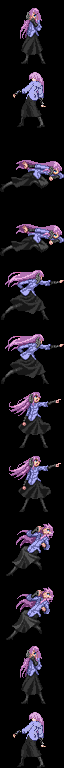
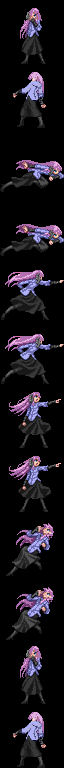
Integrate five supplied rear battle poses with bounded directional rendering

diff --git a/tools/dark_story/build_heart_art.py b/tools/dark_story/build_heart_art.py
@@ -11,12 +11,10 @@ frames are packed one under another (64x768 = 12 frames) with no palette of
 their own.  So the sheet must use that exact palette and nothing else; a
 private 16-colour palette makes every index land on the wrong colour.
 
-Frame layout (games/tbs/src/graphics/sprite/spr_484.tsv steps by two):
-  0,1   front idle / rear idle   2-3   dash / leap (rise)
-  4-5   lunge (landing)           6-7   cast           8-9   damage
-  10,11 front breathing / rear idle
-The supplied rear idle is used only for camera-relative rear idle poses.
-Unsupported action poses retain their existing duplicate frames.
+Frame layout (games/tbs/src/graphics/sprite/spr_484.tsv steps by two, each
+frame is stored twice):
+  0-1   idle            2-3   dash / leap (rise)     4-5  lunge (landing)
+  6-7   cast            8-9   damage       10-11 idle, breathing in
 """
 from pathlib import Path
 
@@ -101,25 +99,6 @@ for index, (name, mirror, rise) in enumerate(LAYOUT):
     frame.alpha_composite(art, (x, FRAME - height - rise))
     sheet.alpha_composite(frame, (0, index * FRAME))
 
-# The original 128x128 rear idle artwork is supplied by Ashfall's author.
-# Match the existing front idle's 56-pixel height, preserve its aspect ratio
-# and ground anchor, and replace only the otherwise-unused odd idle frames.
-rear = Image.open(ROOT / "assets/heart/rear/HeartPosing.png").convert("RGBA")
-bounds = rear.getchannel("A").getbbox()
-if not bounds:
-    raise ValueError("Heart rear idle is empty")
-rear = rear.crop(bounds)
-scale = min(56 / rear.height, FRAME / rear.width)
-rear = rear.resize((round(rear.width * scale), round(rear.height * scale)),
-                   Image.Resampling.NEAREST)
-mask = np.asarray(rear)[..., 3] >= 128
-cx = np.nonzero(mask)[1].mean()
-x = max(0, min(FRAME - rear.width, round(FRAME / 2 - cx)))
-rear_frame = Image.new("RGBA", (FRAME, FRAME), (0, 0, 0, 0))
-rear_frame.alpha_composite(rear, (x, FRAME - rear.height))
-for index in (1, 11):
-    sheet.paste(rear_frame, (0, index * FRAME))
-
 # Quantize each visible pixel to the nearest colour of the shared palette.
 data = np.asarray(sheet)
 visible = data[..., 3] >= 128
@@ -142,35 +121,8 @@ for n in range(FRAMES):
     assert f.any(), f"frame {n} is empty"
     ys, xs = np.nonzero(f)
     assert ys.max() <= FRAME - 1 and xs.min() >= 0 and xs.max() < FRAME
-# The native frame packer stores nonzero pixels as literals, zero runs in
-# chunks of at most 32 and a terminator per frame; the outer LZ stream expands
-# into this representation in the enemy cache, including its offset table.
-# Use the stricter one-slot (16 KiB) limit even though Heart occupies two.
-def packed_frame_size(frame):
-    pixels = frame.ravel()
-    i = 0
-    size = 1
-    while i < len(pixels):
-        if pixels[i]:
-            i += 1
-        else:
-            run = 1
-            while run < 32 and i + run < len(pixels) and not pixels[i + run]:
-                run += 1
-            i += run
-        size += 1
-    return size
-
-packed_size = 4 * (FRAMES + 1) + sum(
-    packed_frame_size(indices[n * FRAME:(n + 1) * FRAME])
-    for n in range(FRAMES)
-)
-if packed_size > 16 * 1024:
-    raise ValueError(f"Heart sprite cache overflow: {packed_size} bytes")
-assert np.array_equal(indices[FRAME:2 * FRAME], indices[11 * FRAME:12 * FRAME])
-for n in (2, 4, 6, 8):
-    assert np.array_equal(indices[n * FRAME:(n + 1) * FRAME],
-                          indices[(n + 1) * FRAME:(n + 2) * FRAME])
+from rear_battle_frames import apply_rear_frames
+indexed = apply_rear_frames(indexed, "heart_idle", (1, 11))
 indexed.save(DEST, optimize=False)
 print(f"Rebuilt {DEST.relative_to(ROOT)}: {FRAMES} frames, "
       f"{len(set(indices[visible].tolist()))} colours from the shared palette")

diff --git a/tools/dark_story/rear_battle_frames.py b/tools/dark_story/rear_battle_frames.py
@@ -1,0 +1,63 @@
+"""Preserve approved Ashfall rear frames across battle-art regeneration.
+
+All overlays are supplied-art conversions, indexed to the shared sprite palette.
+Do not silently accept a changed pose layout or a resource over the cache limit.
+"""
+from pathlib import Path
+import numpy as np
+from PIL import Image
+
+ROOT = Path(__file__).resolve().parents[2]
+ASSETS = ROOT / "assets" / "rear_battle"
+
+
+def packed_size(pixels):
+    count = pixels.shape[0] // 64
+    size = 4 * (count + 1)
+    for frame in pixels.reshape(count, 4096):
+        i = 0
+        size += 1
+        while i < 4096:
+            if frame[i]:
+                i += 1
+            else:
+                run = 1
+                while run < 32 and i + run < 4096 and not frame[i + run]:
+                    run += 1
+                i += run
+            size += 1
+    return size
+
+
+def apply_rear_frames(sheet, asset, slots):
+    if sheet.mode != "P" or sheet.width != 64 or sheet.height % 64:
+        raise ValueError("Expected a 64px-wide indexed battle sheet")
+    palette = sheet.getpalette()
+    rear = Image.open(ASSETS / (asset + ".png"))
+    if rear.mode != "P" or rear.size != (64, 64):
+        raise ValueError("Expected a 64x64 indexed rear frame")
+    if rear.getpalette()[:672] != palette[:672]:
+        raise ValueError("Rear frame palette differs from shared palette")
+    pixels = np.array(sheet)
+    original = pixels.copy()
+    frame = np.array(rear)
+    if not frame.any() or frame.max() > 223:
+        raise ValueError("Rear frame has invalid palette indices")
+    for slot in slots:
+        if not 0 < slot < sheet.height // 64 or slot % 2 != 1:
+            raise ValueError("Rear frame slot must be an existing odd frame")
+        dest = pixels[slot * 64:(slot + 1) * 64]
+        prior = pixels[(slot - 1) * 64:slot * 64]
+        if not (np.array_equal(dest, prior) or np.array_equal(dest, frame)):
+            raise ValueError("Rear frame would replace a nonduplicate pose")
+        dest[:] = frame
+    for i in range(sheet.height // 64):
+        if i not in slots and not np.array_equal(
+                pixels[i * 64:(i + 1) * 64], original[i * 64:(i + 1) * 64]):
+            raise ValueError("Unexpected change to a nonreplacement pose")
+    size = packed_size(pixels)
+    if pixels.max() > 223 or size > 16384:
+        raise ValueError(f"Invalid palette or sprite cache overflow: {size} bytes")
+    result = Image.fromarray(pixels, "P")
+    result.putpalette(palette)
+    return result

diff --git a/games/tbs/src/field/field/sprite_draw.c b/games/tbs/src/field/field/sprite_draw.c
@@ -5,6 +5,7 @@
 #include "../field_internal.h"
 #include "battle_display.h"
 #include "atropos_aura.h"
+#include "ashfall_rear_facing.h"
 
 /// Draws one anim's frame into a sprite's pixel buffer (Render_DecodeFrame,
 /// run from RAM).
@@ -186,21 +187,14 @@ s32 Sprite_ComposeFrame(struct Sprite *animation, u16 dir) {
       break;
     default:
       facing = 0;
-      // Kind 44 (Ash Jenna, Heart, Kegare and Sarah in battle) never mirrors
-      // by itself, only while a camera swing has turned the view round
-      // (BattleCamera_FlipBossesInFrontView).
+      // Retain legacy Kind 44 behavior except for approved rear pose pairs.
       if (layer->kind == 44 && gBattleCamera != 0) {
         if (gBattleCamera->flipCaster == FLIP_CASTER_ON)
           facing = 0x80;
-        // Heart (SPR_484) has a rear idle drawing in the unused odd frames.
-        // Use the camera-relative actor heading, but keep the old behavior
-        // for every unsupported action pose and every other custom sprite.
-        if (i == 0 && (layer->animationId & 0xfff) == 484 &&
-            (frame == 0 || frame == 10)) {
-          u32 nativeFacing = gAnimationFacing_FrontBack[dir >> 13];
-          if (nativeFacing & 1)
-            facing = nativeFacing;
-        }
+        if (i == 0)
+          facing = AshfallRearFacing(layer->animationId, frame,
+                                     gAnimationFacing_FrontBack[dir >> 13],
+                                     facing);
       }
       break;
     }
@@ -558,7 +552,12 @@ void Render_PlaceProjectedSprite(struct Sprite *sprite, s32 *point, s32 *scale,
         scaleX = 0x1f800;
       if (scaleY > 0x1f7ff)
         scaleY = 0x1f800;
-      offsetX = Iwram_MulQ16(sprite->offsetX, scaleX);
+      offsetX = sprite->offsetX;
+      if (gBattleCamera != 0 && sprite->entries[0] != 0 &&
+          sprite->entries[0]->kind == 44)
+        offsetX += AshfallRearOffsetX(sprite->entries[0]->animationId,
+                                    sprite->entries[0]->frame);
+      offsetX = Iwram_MulQ16(offsetX, scaleX);
       offsetY = -Iwram_MulQ16((sprite->height >> 1) - sprite->offsetY, scaleY);
       if (scaleX > Q16_ONE || scaleY > Q16_ONE) {
         affine = 3;

diff --git a/games/tbs/src/field/field/ashfall_rear_facing.h b/games/tbs/src/field/field/ashfall_rear_facing.h
@@ -1,0 +1,37 @@
+#ifndef ASHFALL_REAR_FACING_H
+#define ASHFALL_REAR_FACING_H
+
+/* Only approved pose pairs are directional. Unsupported poses retain the
+ * legacy camera-flip behavior, including blank frames. Cache tags occupy
+ * the upper bits of the animation id. */
+static u32 AshfallRearFacing(u32 animationId, s32 frame, u32 nativeFacing,
+                            u32 fallback) {
+  if ((nativeFacing & 1) == 0)
+    return fallback;
+  switch (animationId & 0xfff) {
+  case 477: /* Ash Jenna */
+  case 487: /* Kegare */
+    return frame == 4 ? nativeFacing : fallback;
+  case 484: /* Heart */
+    return (frame == 0 || frame == 10) ? nativeFacing : fallback;
+  case 491: /* Vengeful Wraith */
+    return frame == 6 ? nativeFacing : fallback;
+  case 492: /* Menardi Atropos */
+    return frame == 10 ? nativeFacing : fallback;
+  default:
+    return fallback;
+  }
+}
+
+/* Align the rear slash's feet with the original pose without shortening
+ * the weapon. Apply only to the projected image, before native mirroring. */
+static s32 AshfallRearOffsetX(u32 animationId, s32 frame) {
+  if (frame == 5) {
+    if ((animationId & 0xfff) == 477)
+      return 18;
+    if ((animationId & 0xfff) == 487)
+      return 8;
+  }
+  return 0;
+}
+#endif

diff --git a/tools/dark_story/build_ash_jenna_art.py b/tools/dark_story/build_ash_jenna_art.py
@@ -88,6 +88,8 @@ assert indices.max() > 15, "sheet only uses the first 16 colours"
 assert (indices[~visible] == 0).all() and (indices[visible] != 0).all()
 for n in range(FRAMES):
     assert indices[n * FRAME:(n + 1) * FRAME].any(), f"frame {n} is empty"
+from rear_battle_frames import apply_rear_frames
+indexed = apply_rear_frames(indexed, "ash_jenna_slash", (5,))
 indexed.save(DEST, optimize=False)
 print(f"Rebuilt {DEST.relative_to(ROOT)}: {FRAMES} frames, "
       f"{len(set(indices[visible].tolist()))} colours from the shared palette")

diff --git a/tools/dark_story/build_kegare_art.py b/tools/dark_story/build_kegare_art.py
@@ -97,6 +97,8 @@ assert indices.max() > 15, "sheet only uses the first 16 colours"
 assert (indices[~visible] == 0).all() and (indices[visible] != 0).all()
 for n in range(FRAMES):
     assert indices[n * FRAME:(n + 1) * FRAME].any(), f"frame {n} is empty"
+from rear_battle_frames import apply_rear_frames
+indexed = apply_rear_frames(indexed, "kegare_slash", (5,))
 indexed.save(DEST, optimize=False)
 print(f"Rebuilt {DEST.relative_to(ROOT)}: {FRAMES} frames, "
       f"{len(set(indices[visible].tolist()))} colours from the shared palette")

diff --git a/games/tbs/src/field/field/atropos_aura.h b/games/tbs/src/field/field/atropos_aura.h
@@ -23,6 +23,10 @@ static void AtroposAura_Apply(u8 *pixels, u32 frame, u32 phase) {
   for (; i < end; i++) {
     change = sAtroposAuraChanges[i];
     offset = change & 0xfff;
+    /* Frame 11 is the supplied rear cast. Reuse only the existing exterior
+     * aura animation, never the front pose's hair, eye or body changes. */
+    if (frame == 11 && ((change >> 12) & 0xff) != 0)
+      continue;
     if (pixels[offset] == ((change >> 12) & 0xff))
       pixels[offset] = (u8)(change >> 20);
   }

diff --git a/tools/dark_story/build_wraith_art.py b/tools/dark_story/build_wraith_art.py
@@ -96,6 +96,8 @@ if "--portrait-only" not in sys.argv[1:]:
 
     out = Image.fromarray(sheet, "P")
     out.putpalette(palette + [0] * (256 - 224) * 3)
+    from rear_battle_frames import apply_rear_frames
+    out = apply_rear_frames(out, "wraith_cast", (7,))
     out.save(DEST, optimize=False)
     print(f"Packed {DEST.relative_to(ROOT)}: {2 * len(LAYOUT)} frames")
 

diff --git a/docs/ashfall-rear-sprite-tracker.md b/docs/ashfall-rear-sprite-tracker.md
@@ -1,19 +1,21 @@
-# Ashfall rear-facing battle sprite tracker
+# Ashfall rear-facing sprite tracker
 
-Baseline: 71a1b7626ce3886d4731c000b2de17feb1a1b8f0. This branch is an isolated experiment, not a release build.
+Baseline: 71a1b7626ce3886d4731c000b2de17feb1a1b8f0. Work remains experimental; main is unchanged.
 
-| Boss | Sprite | Asset / implementation | Build | Emulator |
-| --- | ---: | --- | --- | --- |
-| Ash Jenna | 477 | Audit only | Pending | Pending |
-| Heart | 484 | Rear idle frames 1 and 11 prepared; source selector added | Pending | Pending |
-| Kegare | 487 | Audit only | Pending | Pending |
-| Sarah | 488 | Audit only | Pending | Pending |
-| ??? | 489 | Audit only; sequential animation frames need separate mapping | Pending | Pending |
-| Vengeful Wraith | 491 | Audit only | Pending | Pending |
-| Menardi Atropos | 492 | Audit only; orientation-specific aura needed | Pending | Pending |
+| Boss | Sprite | Rear positions | Packed bytes (baseline / revised) | Source | ROM / emulator |
+| --- | ---: | --- | --- | --- | --- |
+| Heart | 484 | 1, 11 (idle) | 13,946 / 14,087 | Integrated | Pending |
+| Ash Jenna | 477 | 5 (slash) | 16,048 / 15,912 | Integrated | Pending |
+| Kegare | 487 | 5 (slash) | 13,850 / 13,737 | Integrated | Pending |
+| Vengeful Wraith | 491 | 7 (cast) | 14,100 / 14,387 | Integrated | Pending |
+| Menardi Atropos | 492 | 11 (cast) | 15,390 / 15,347 | Integrated, exterior aura adaptation | Pending |
+| Sarah | 488 | none | unchanged | Excluded by author | Regression only |
+| ??? | 489 | none | unchanged | Deferred by author | Regression only |
 
-Heart: the author supplied HeartPosing.png and HeartChoke.png. Only HeartPosing is selected for this experiment. The casting candidate has a more frontal torso and a substantially wider silhouette at game resolution; do not install it as a rear cast. The source is stored in assets/heart/rear/HeartPosing.png. The original frame positions 0,2,4,6,8,10 and unused action duplicates 3,5,7,9 are unchanged. Both rear idle positions share one drawing (rear breathing is static). The selected frames use the existing native front/back table for the rear sectors only; all other frames and sprites retain the old Kind 44 behavior. The asset builder regenerates the rear artwork so the official workflow does not overwrite it.
+All prepared frames are conversions of author-supplied artwork, not generated assets. Heart uses the approved refined frame, not the earlier prototype. Ash Jenna and Kegare have image-only anchor corrections of +18 and +8 source pixels before mirroring. Native direction table selects rear poses only where supplied. Unsupported poses retain the old Kind 44 behavior; pose transitions may still show an orientation discontinuity. No animation scripts or battle mechanics were changed. Heart rear breathing is static.
 
-Static validation: exact baseline PNG Git blob 96d0097d5ade5f51e59341d4a699a745c843c58b; replacement PNG blob 99c55053f7118392ca1b67c66dcf2d68ba5e9bfc. The source artwork blob matches the supplied file. A local pixel comparison confirmed only frames 1 and 11 changed; 224-color palette and 64x768 sheet preserved. The zero-run packer calculation including directory is 13,993 bytes (original 13,946; one 16 KiB slot is 16,384). The direction selector model passed 9408 combinations of sprite ID, cache slot, layer, camera, flip flag, base frame and angular sector. This is not execution of the actual game renderer or a ROM build. The full asset builder and toolchain have not been run locally.
+The five baseline sheets were decoded and every nonreplacement frame was compared exactly. All source palette indices and dimensions are retained. PNG round-trip checks passed. Conservative packed-size check counts offset directory, zero runs, literals and terminators; all below 16 KiB. Host C89 test of selector and anchor helper passed 1,179,648 input combinations; this is not an execution of the game renderer. Build-time art generators reapply the indexed rear frames and check the palette, frame layout and memory budget. No full ROM build or full builder execution performed yet.
 
-Acceptance checks: both Heart encounters; normal command camera, rotation past both rear sector boundaries and return, idle-to-dash/lunge/cast/damage/defeat transitions, hit flash, status overlays and normal front idle breathing; mixed Rift battle with ???; ordinary enemies and Saturos/Menardi; frame cache capacity and no visual glitches. Rear action poses retain front artwork and can cause visible orientation discontinuities; do not claim full rear support. No builds triggered by this experiment branch. Do not merge until the ROM is built and tested.
+Atropos uses the original ten-phase cast aura table for the new rear cast only on transparent pixels; front-facing aura, idle hair, fabric, crimson eyes and all strike/dissolve logic remain untouched. Rear cloth/hair are static and the exterior glow may need visual adjustment. Actual rear aura and transitions require emulator testing.
+
+Acceptance: all selected encounters, rear/front camera sectors including command view, returning to normal view, attack and cast transition timing, shadow/feet/weapon placement, damage flash, status overlays, defeat, Atropos exterior aura, mixed Rift encounters, Sarah and ??? untouched, original Menardi/Saturos and regular enemies. Build only after static review; no claim of release readiness.
